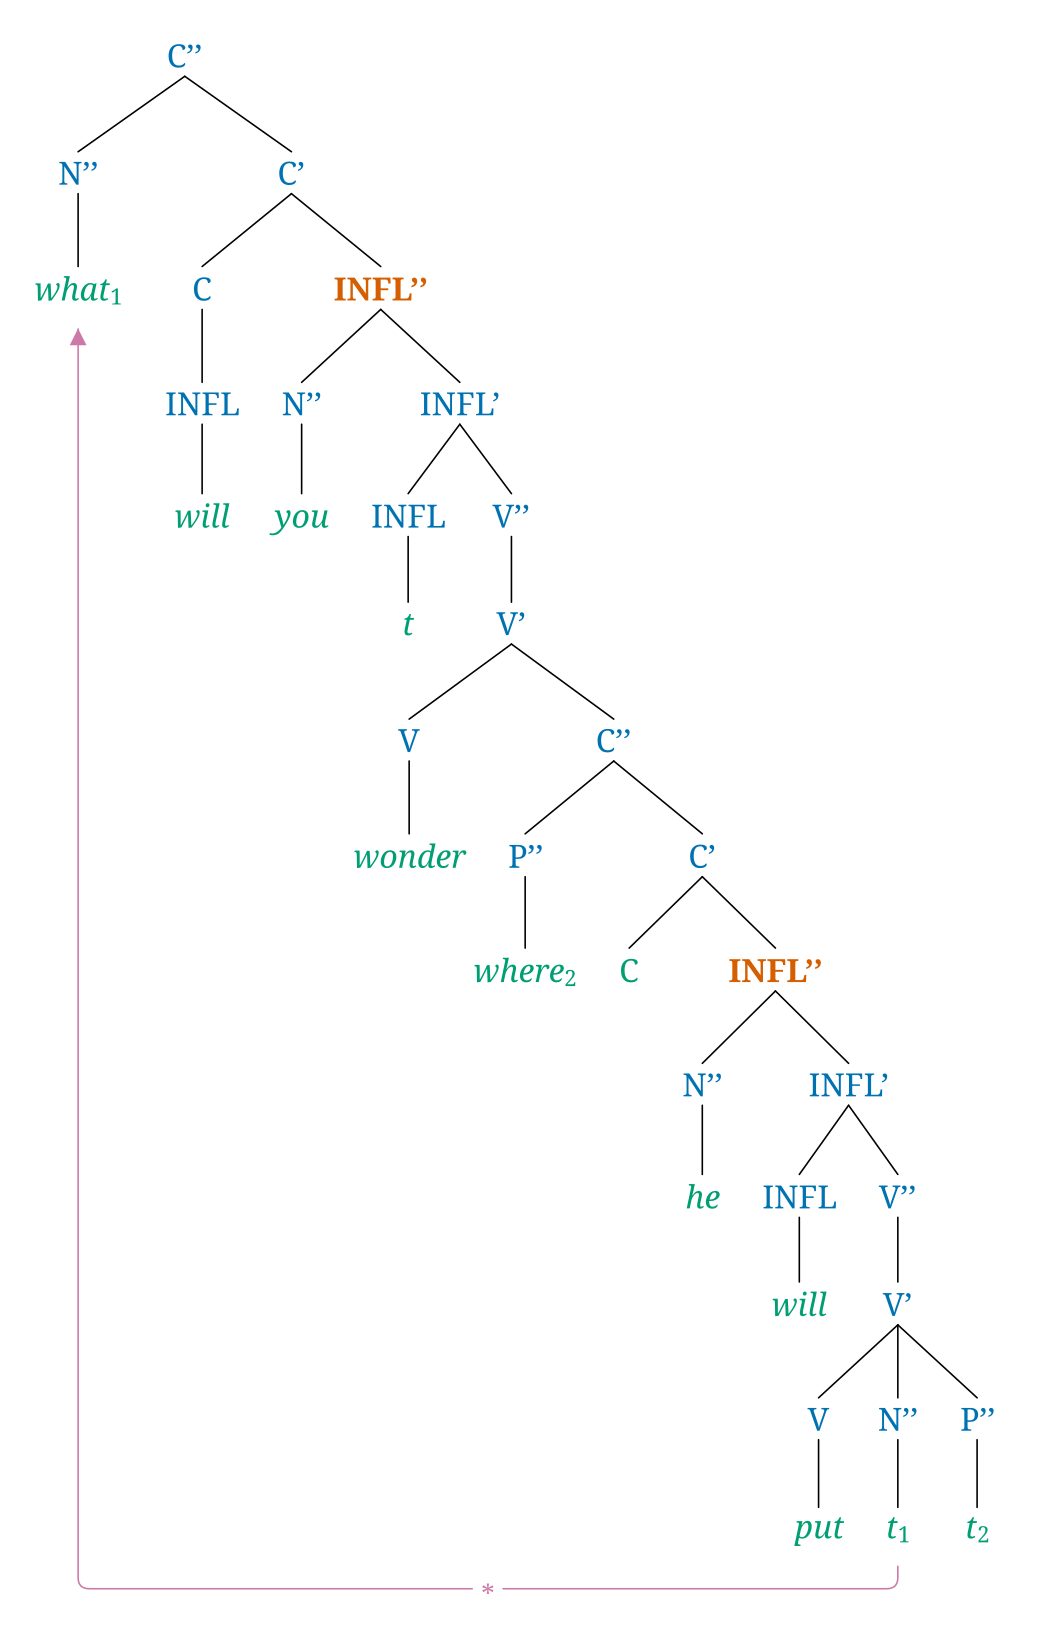
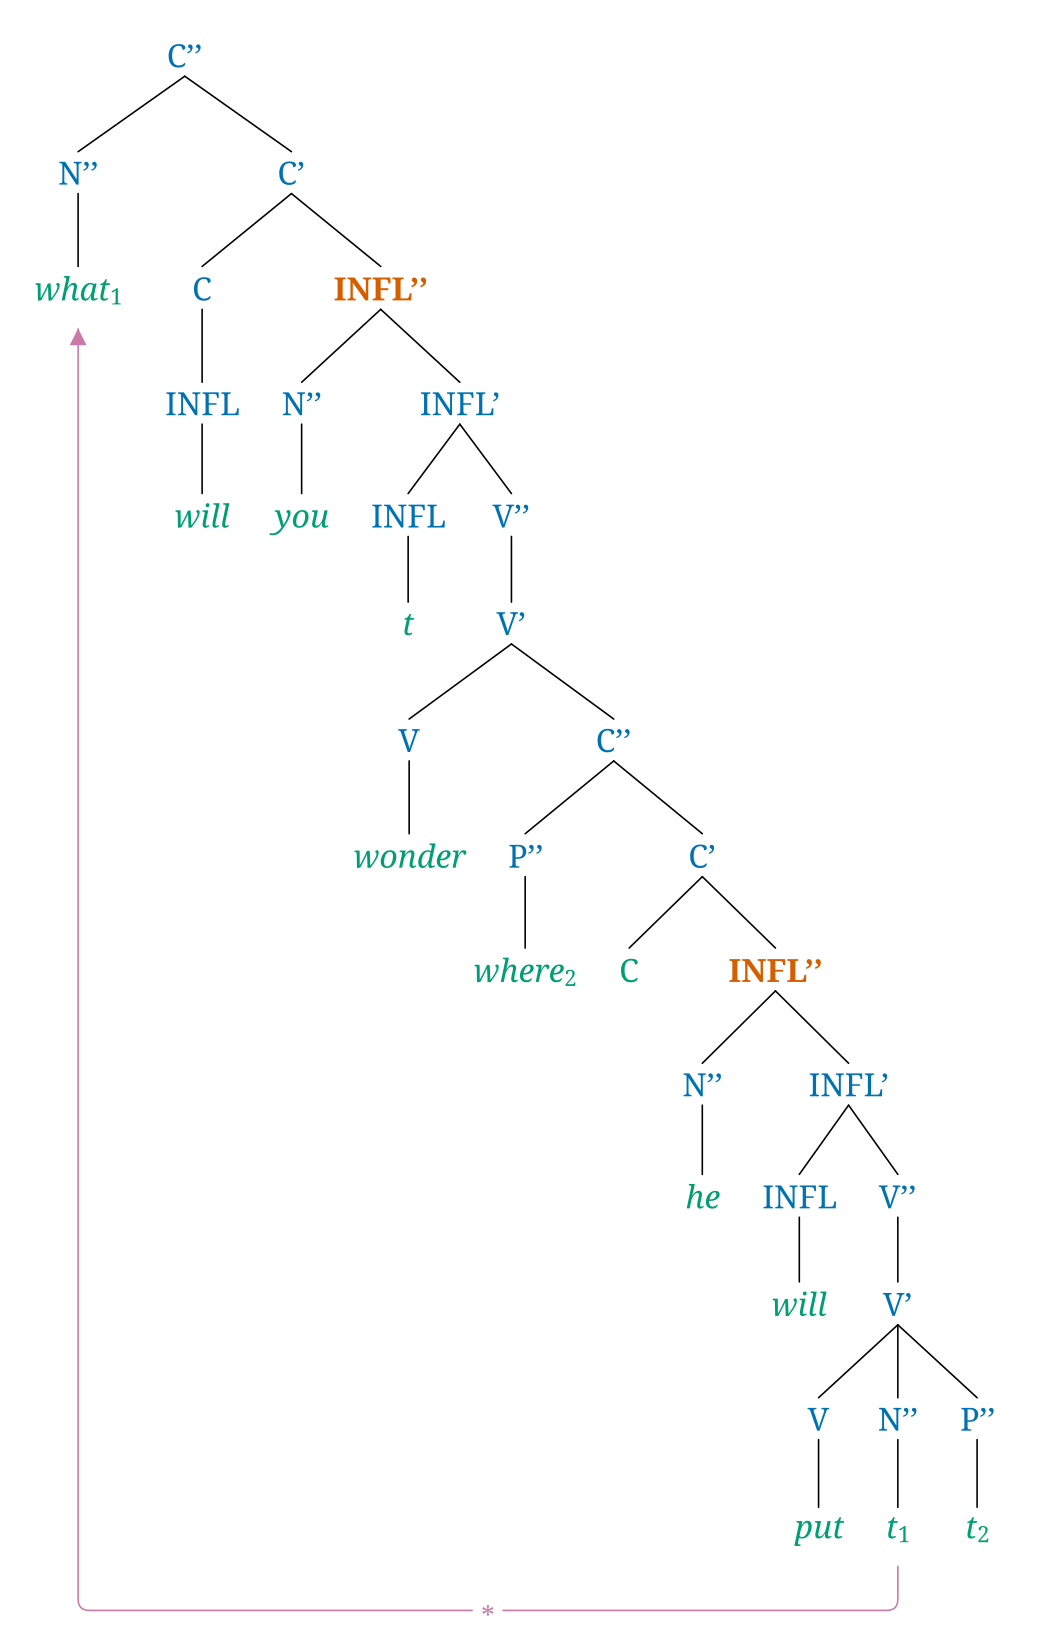
Keep link texts whole, in their face, and on their own rails
The canvas holds a text wider than the tree, the text is measured and
drawn in the label face and as it reads, and a rail carrying a text
stands far enough from its neighbours for the text to sit on it. The
dashes carry on past the text, spaces in it are kept, a backslash
before n stays, and an unclosed text is named.

diff --git a/lib/rsyntaxtree/svg_graph.rb b/lib/rsyntaxtree/svg_graph.rb
@@ -94,8 +94,9 @@ module RSyntaxTree
         y1 = top
       end
 
-      if @region_bounds
-        rb = @region_bounds
+      # A link's text can reach past everything else, on any side: a wide
+      # one centred on a short link stands out to the left of the tree.
+      [@region_bounds, @label_bounds].compact.each do |rb|
         m = @global[:h_gap_between_nodes]
         left = [x1, rb[:min_x] - m].min
         top = [y1, rb[:min_y] - m].min
@@ -482,7 +483,7 @@ module RSyntaxTree
     # the dash pattern runs round each turn instead of restarting at it, and an
     # arrowhead is the end of the stroke rather than a marker on whichever line
     # happens to finish last.
-    def generate_path(points, col, dashed: false, radius: 0, start_arrow: false, end_arrow: false)
+    def generate_path(points, col, dashed: false, radius: 0, start_arrow: false, end_arrow: false, dash_offset: nil)
       # An arrowhead is drawn back along the run it ends, so the corner before
       # it has to leave that run its full length. Without this the shorter of
       # the two end runs — which is only as long as the path's bulge — lost half
@@ -494,6 +495,7 @@ module RSyntaxTree
       radius = [radius, 0].max
 
       dasharray = dashed ? "#{dash_array} " : ""
+      dasharray += "stroke-dashoffset='#{dash_offset.round(3)}' " if dashed && dash_offset
       markers = +""
       markers << "marker-start='url(#arrowStart)' " if start_arrow
       markers << "marker-end='url(#arrow)' " if end_arrow
@@ -549,20 +551,31 @@ module RSyntaxTree
     # the way twice and there are at most as many moves as rails. Distances
     # are compared with a little slack: a rail moved exactly one spacing past
     # another can measure a hair under it, and would be moved again forever.
-    def clear_of_rails(at, span, spacing, sign)
+    # +band+ is how far a text set across this rail reaches on either side of
+    # it: two rails stand far enough apart for both their texts to fit.
+    def clear_of_rails(at, span, spacing, sign, band = 0)
       @rails ||= []
       lo, hi = span
-      close = spacing - RAIL_SLACK
+      apart = ->(r) { [spacing, r[:band] + band + (spacing / 2.0)].max }
       @rails.size.times do
         blocking = @rails.find do |r|
+          close = apart.call(r) - RAIL_SLACK
           r[:lo] < hi + close && lo < r[:hi] + close && (r[:at] - at).abs < close
         end
         break unless blocking
 
-        at = blocking[:at] + (sign * spacing)
+        at = blocking[:at] + (sign * apart.call(blocking))
       end
-      @rails << { lo: lo, hi: hi, at: at }
+      @rails << { lo: lo, hi: hi, at: at, band: band }
       at
+    end
+
+    # How much room a link's text takes: its width and height, and the margin
+    # kept round it.
+    def link_label_extent(label)
+      size = @fontsize * LINK_LABEL_SIZE
+      m = FontMetrics.get_metrics(Element.plain_text(label), @fontset[:family], size, :normal, :normal)
+      [m.width, size, size * LINK_LABEL_PAD]
     end
 
     # Where the movement links have been, as a box. The canvas learns of a
@@ -638,6 +651,10 @@ module RSyntaxTree
                 end
         new_x = [new_x, s_x + arrow_run].max if source_arrow
         new_x = [new_x, t_x + arrow_run].max if target_arrow_drawn
+        # A text set across the rail reaches half its width either side, so
+        # the rail stands that much farther out, and the next rail beyond it.
+        reach = label ? (link_label_extent(label).then { |w, _, pad| (w / 2.0) + pad }) : 0
+        new_x += reach
 
         new_s_y = s_y + s_offset
         new_t_y = t_y + t_offset
@@ -647,7 +664,7 @@ module RSyntaxTree
         @link_drawings << { points: [[s_x, new_s_y], [new_x, new_s_y], [new_x, new_t_y], [t_x, new_t_y]],
                             dashed: dashed, radius: corner_radius, label: label,
                             start_arrow: target_arrow == :double, end_arrow: target_arrow != :none }
-        @width = new_x if new_x > @width
+        @width = new_x + reach if new_x + reach > @width
       else
         # TTB: route BELOW the tree (U shape), on the side the words are on;
         # BTT turns the tree over, words at the top, and the path with it.
@@ -664,7 +681,12 @@ module RSyntaxTree
 
         new_s_x = s_x + s_offset
         new_t_x = t_x + t_offset
-        new_y = clear_of_rails(new_y, [new_s_x, new_t_x].minmax, spacing, sign)
+        # A text set across the rail reaches half its height either side of
+        # it: the rail keeps that much more from the words, and from the
+        # rails beside it.
+        band = label ? (link_label_extent(label).then { |_, h, pad| (h / 2.0) + pad }) : 0
+        new_y += sign * band
+        new_y = clear_of_rails(new_y, [new_s_x, new_t_x].minmax, spacing, sign, band)
 
         note_path_extent([[new_s_x, s_y], [new_s_x, new_y],
                           [new_t_x, new_y], [new_t_x, t_y]])
@@ -688,10 +710,12 @@ module RSyntaxTree
         spot = link[:label] && link_label_spot(link, placed)
         if spot && spot[:across]
           before, after = split_at_gap(link[:points], spot[:gap])
+          # The dashes carry on after the gap where they would have been.
+          phase = (before + [after.first]).each_cons(2).sum { |(ax, ay), (bx, by)| Math.hypot(bx - ax, by - ay) }
           @extra_lines << generate_path(before, @col_path, dashed: link[:dashed], radius: link[:radius],
                                                            start_arrow: link[:start_arrow])
           @extra_lines << generate_path(after, @col_path, dashed: link[:dashed], radius: link[:radius],
-                                                          end_arrow: link[:end_arrow])
+                                                          end_arrow: link[:end_arrow], dash_offset: phase)
         else
           @extra_lines << generate_path(link[:points], @col_path, dashed: link[:dashed], radius: link[:radius],
                                                                   start_arrow: link[:start_arrow],
@@ -703,8 +727,11 @@ module RSyntaxTree
         @extra_lines << link_label_svg(link[:label], spot)
         x0, y0, x1, y1 = spot[:box]
         note_path_extent([[x0, y0], [x1, y1]])
-        @width = x1 if x1 > @width
-        @height = y1 if y1 > @height
+        b = (@label_bounds ||= { min_x: x0, min_y: y0, max_x: x1, max_y: y1 })
+        b[:min_x] = [b[:min_x], x0].min
+        b[:min_y] = [b[:min_y], y0].min
+        b[:max_x] = [b[:max_x], x1].max
+        b[:max_y] = [b[:max_y], y1].max
       end
     end
 
@@ -718,10 +745,8 @@ module RSyntaxTree
     # and, when it sits across the rail, the stretch of rail to leave out.
     def link_label_spot(link, placed)
       size = @fontsize * LINK_LABEL_SIZE
-      m = FontMetrics.get_metrics(link[:label], @fontset[:family], size, :normal, :normal)
-      w = m.width
-      h = size
-      pad = size * LINK_LABEL_PAD
+      m = FontMetrics.get_metrics(Element.plain_text(link[:label]), @fontset[:family], size, :normal, :normal)
+      w, h, pad = link_label_extent(link[:label])
       (a, b) = link[:points][1], link[:points][2]
       level = a[1] == b[1] # the rail runs across the figure
       along = level ? w : h
@@ -738,8 +763,14 @@ module RSyntaxTree
       tries = []
       room = ((hi - lo) / 2.0) - (along / 2.0) - pad - reach
       tries << [0, room] if room >= 0
-      tries << [outward * offset, ((hi - lo) / 2.0) - (along / 2.0)]
-      tries << [-outward * offset, ((hi - lo) / 2.0) - (along / 2.0)]
+      # Beside the rail, outside it and then inside, and farther out step by
+      # step where other rails stand close by.
+      beside = ((hi - lo) / 2.0) - (along / 2.0)
+      step_out = across + (pad * 2)
+      (0..4).each do |far|
+        tries << [outward * (offset + (far * step_out)), beside]
+        tries << [-outward * (offset + (far * step_out)), beside] if far.zero?
+      end
 
       first = nil
       tries.each do |shift, slack|
@@ -798,7 +829,8 @@ module RSyntaxTree
       m = spot[:metrics]
       baseline = spot[:cy] + m.ink_above - (m.ink_height / 2.0)
       escaped = text.gsub("<", "&lt;").gsub(">", "&gt;")
-      "<text x='#{spot[:cx].round(3)}' y='#{baseline.round(3)}' text-anchor='middle' " \
+      "<text x='#{spot[:cx].round(3)}' y='#{baseline.round(3)}' text-anchor='middle' white-space='pre' " \
+        "xml:space='preserve' font-family=\"#{FontFamily.for_svg(@fontstyle)}\" " \
         "style='fill: #{@col_path}; stroke-width: 0; font-size: #{spot[:size].round(3)}px'>#{escaped}</text>\n"
     end
 

diff --git a/test/link_label_test.rb b/test/link_label_test.rb
@@ -21,7 +21,7 @@ class LinkLabelTest < Minitest::Test
 
   # The link text: its position, size and content.
   def text(doc)
-    m = doc.match(%r{<text x='([-\d.]+)' y='([-\d.]+)' text-anchor='middle' style='[^']*font-size: ([\d.]+)px'>([^<]*)</text>})
+    m = doc.match(%r{<text x='([-\d.]+)' y='([-\d.]+)' text-anchor='middle'[^>]*font-size: ([\d.]+)px'>([^<]*)</text>})
     m && { x: m[1].to_f, y: m[2].to_f, size: m[3].to_f, content: m[4] }
   end
 
@@ -116,5 +116,50 @@ class LinkLabelTest < Minitest::Test
 
     assert_includes doc, "\"a\""
     assert_nil text(doc)
+  end
+
+  # A text wider than the tree is not cut off at either edge.
+  def test_a_wide_text_stays_inside_the_canvas
+    gen = RSyntaxTree::RSGenerator.new(data: "[S [A a+1\"WWWWWWWWWWWWWWWWWWWW\"] [B b+1]]", format: "svg")
+    doc = gen.draw_svg
+    left, _, width, = doc[/viewBox="([^"]+)"/, 1].split(/[ ,]+/).map(&:to_f)
+    t = text(doc)
+    family = gen.instance_variable_get(:@params)[:fontset][:family]
+    half = FontMetrics.get_metrics("WWWWWWWWWWWWWWWWWWWW", family, t[:size], :normal, :normal).width / 2.0
+
+    assert_operator t[:x] - half, :>, left
+    assert_operator t[:x] + half, :<, left + width
+  end
+
+  # The text is drawn in the face it was measured in, and measured as it
+  # reads: an ampersand is one character.
+  def test_the_text_is_set_in_the_label_face
+    doc = svg("[S [A a+1\"&\"] [M mid] [B b+1]]", fontstyle: "mono")
+
+    assert_match(/<text [^>]*font-family="[^"]*Mono[^"]*"[^>]*>&amp;</, doc)
+  end
+
+  def test_a_backslash_n_inside_the_text_is_kept
+    links = JSON.parse(RSyntaxTree::RSGenerator.new(data: "[S [A a+1\"x\\\\name\"] [B b+1]]", format: "json").draw_json)["links"]
+
+    assert_equal ["x\\name"], links.map { |l| l["label"] }
+  end
+
+  def test_the_dashes_carry_on_past_the_text
+    doc = svg("[S [A a+1\"*\"] [M middlemiddlemiddle] [B b+1]]")
+
+    assert_match(/stroke-dashoffset='[\d.]+'/, doc)
+  end
+
+  def test_an_unclosed_text_is_named
+    e = begin
+      svg("[S [A a+1\"bad] [B b+1]]")
+      nil
+    rescue RSTError => err
+      err
+    end
+
+    assert_equal :incomplete_marker, e.code
+    assert_includes e.hint, "closing double quote"
   end
 end

diff --git a/lib/rsyntaxtree/element.rb b/lib/rsyntaxtree/element.rb
@@ -65,7 +65,7 @@ module RSyntaxTree
       # The markers are read from the label itself, after a rule name has gone,
       # so a name that ends in what looks like one is drawn as written.
       _body, path_text = Element.split_path(content)
-      markers = path_text.gsub("\\n", "").scan(/\+(=|-?[<>]?)(\d+)(?:"((?:\\.|[^"\\])*)")?/)
+      markers = path_text.sub(/\\n\z/, "").scan(/\+(=|-?[<>]?)(\d+)(?:"((?:\\.|[^"\\])*)")?/)
       @path = markers.map { |kind, number, _| kind + number }
       @route, @path = @path.partition { |marker| marker.start_with?("=") }
       # The text a link carries, by its number; the kind of marker it was
@@ -334,7 +334,10 @@ module RSyntaxTree
        ->(s) { s.sub(/\A\^+/, "^") }, "Only one '^' may prefix a label."],
       [:incomplete_marker,
        ->(s) { s.sub(/(?<!\\)\+(?:=|>?<?)\z/, "") },
-       "A marker needs a number: write +1 for a link, +>1 for its arrowhead, or +=1 for a highlighted path."]
+       "A marker needs a number: write +1 for a link, +>1 for its arrowhead, or +=1 for a highlighted path."],
+      [:incomplete_marker,
+       ->(s) { s.match?(/(?<!\\)\+-?[<>]?\d+"[^"]*\z/) ? "#{s}\"" : s },
+       "A link's text needs a closing double quote: +1\"*\"."]
     ].freeze
 
     # Turn a Markup.parse failure into structured error attributes: a code
